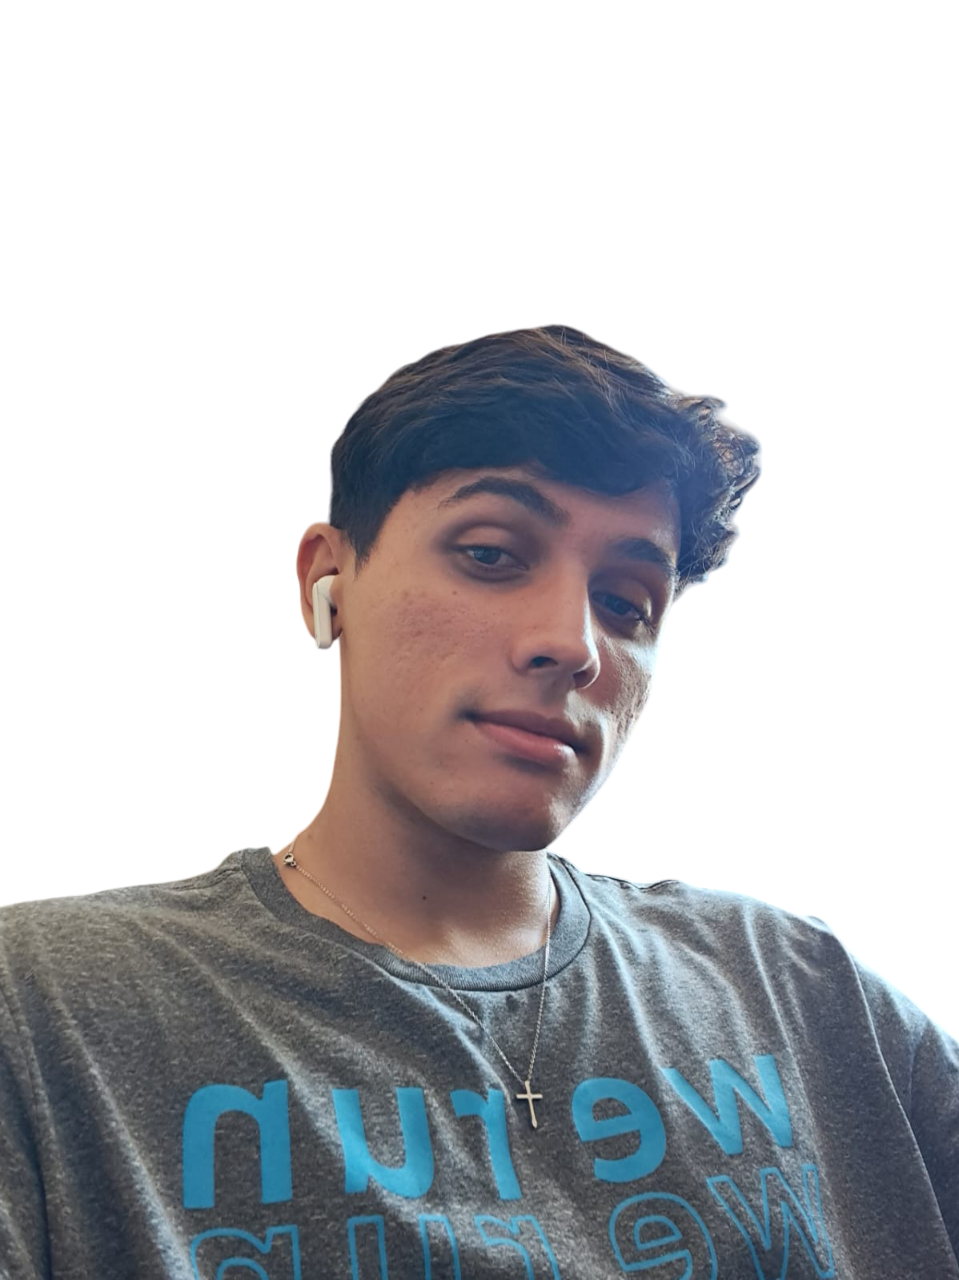
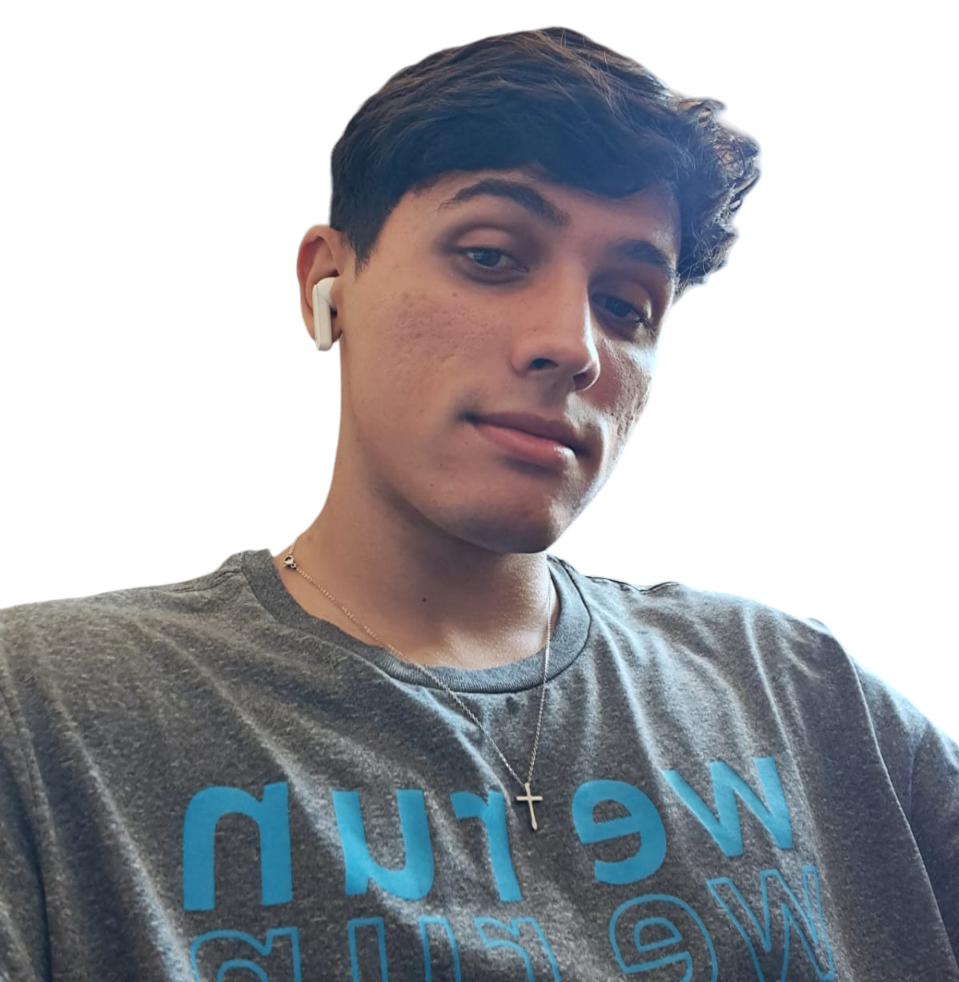
feat: add spacing and containers summary section

diff --git a/src/app/page.tsx b/src/app/page.tsx
@@ -3,16 +3,41 @@
 import { Inter } from "next/font/google";
 import Heading from "./components/Heading/heading";
 import Image from "next/image";
+import { DescriptionSummary, SocialMediaLink, SubTitle, SummaryContainer, SummaryImage, PersonalInfosContainer, Title, MainContainer } from "./style";
+import InstagramSvg from "../../public/instagram-black-icon.svg"
+import TwitterSvg from "../../public/twitter-black-icon.svg"
+import LinkedinSvg from "../../public/linkedin-black-icon.svg"
 
 const inter = Inter({ weight: '400', subsets: ['latin'] })
 
 export default function Home() {
   return (
-    <main className={inter.className}>
+    <MainContainer className={inter.className}>
       <Heading />
-      <div>
-        <Image width={100} height={100} src="/aster-photo.png" alt="Developer photo."/>
-      </div>
-    </main>
+      <SummaryContainer>
+        <PersonalInfosContainer>
+          <Title>Rodrigo Aster</Title><br />
+          <SubTitle>Software Developer</SubTitle><br /><br />
+          <DescriptionSummary>Buscando contribuir ao máximo no mundo do Desenvolvimento Web.</DescriptionSummary><br />
+          <DescriptionSummary>Falaremos sobre Desenvolvimento Back-end, qualidade de 
+          código e minha experiência como desenvolvedor.</DescriptionSummary><br /><br />
+          <nav>
+            <SocialMediaLink target="_blank" href="https://www.instagram.com/rodrigaster/">
+              <Image width={25} height={25} src={InstagramSvg} alt="Instagram icon" />
+            </SocialMediaLink>
+            <SocialMediaLink target="_blank" href="https://x.com/rodrigaster">
+              <Image width={25} height={25} src={TwitterSvg} alt="X icon" />
+            </SocialMediaLink>
+            <SocialMediaLink target="_blank" href="https://www.linkedin.com/in/rodrigoaster/">
+              <Image width={25} height={25} src={LinkedinSvg} alt="Linkedin icon" />
+            </SocialMediaLink>
+          </nav>
+        </PersonalInfosContainer>
+        <SummaryImage 
+          src="/aster-photo.png" 
+          alt="Developer photo."
+        />
+      </SummaryContainer>
+    </MainContainer>
   );
 }

diff --git a/src/app/style.ts b/src/app/style.ts
@@ -1,0 +1,54 @@
+import { motion } from "motion/react";
+import styled from "styled-components";
+
+export const MainContainer = styled.main`
+  max-width: 1654px;
+  
+  margin: 0 auto;
+`;
+
+export const SummaryContainer = styled(motion.section)`
+  display: grid;
+  grid-template-columns: 480px 480px;
+  grid-template-rows: 480px;
+
+  column-gap: 64px;
+  
+  margin-top: 72px;
+
+  justify-content: center;
+`;
+
+export const PersonalInfosContainer = styled.div`
+`;
+
+export const SummaryImage = styled.img`
+  width: 450px;
+  height: auto;
+
+  border: 1px solid #ccc;
+
+  border-end-end-radius: 10%;
+  border-bottom-left-radius: 10%;
+  border-top-right-radius: 10%;
+`;
+
+export const SocialMediaLink = styled.a`
+  padding-right: 20px;
+
+`;
+
+export const Title = styled.h1`
+  font-size: 3.75rem;
+  font-weight: 700;
+`;
+
+export const SubTitle = styled.h3`
+  font-size: 1.5rem;
+  font-weight: 400;
+`;
+
+export const DescriptionSummary = styled.p`
+  font-size: 1.375rem;
+  color: #878787;
+`;

diff --git a/src/app/components/Heading/heading.tsx b/src/app/components/Heading/heading.tsx
@@ -5,11 +5,11 @@ export default function Heading() {
     return (
         <S.Container>
             <Image src="/icon-aster-outlined.png" alt="Logo of developer" width={70} height={70}/>
-            <S.NavContainer>
+            <nav>
                 <S.NavLink href="">Home</S.NavLink>
                 <S.NavLink href="">About</S.NavLink>
                 <S.NavLink href="">Certifications</S.NavLink>
-            </S.NavContainer>             
+            </nav>             
         </S.Container>
     );
 }

diff --git a/src/app/components/Heading/styles.ts b/src/app/components/Heading/styles.ts
@@ -8,13 +8,8 @@ export const Container = styled(motion.div)`
   justify-content: space-around;
   align-items: center;
   
-  padding: 25px 100px;
+  padding: 20px 100px;
 
-  position: fixed;
-`;
-
-export const NavContainer = styled(motion.nav)`
-  
 `;
 
 export const NavLink = styled(motion.a)`
